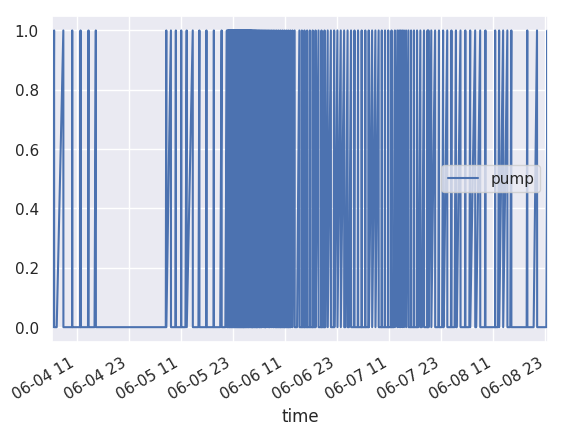
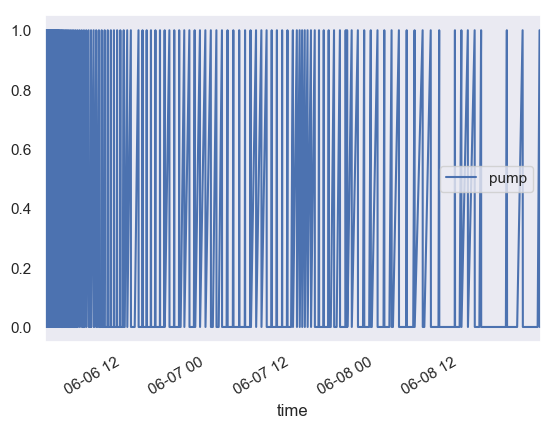
Removed time values from x-axis in pump graphs. Updated GRAPHS doc.

diff --git a/plot_pump.py b/plot_pump.py
@@ -113,15 +113,15 @@ def build_graphs(filename, truncate, show_graphs=False):
     on_off_df = create_durations_for_event_pair(data, pw.PUMP_ON, pw.PUMP_OFF, "on_duration")
     # print(on_off_df)
     ax = on_off_df.plot(kind="bar", linewidth=0)
-    plt.savefig("graphs/fig_pump_durations_on_off.png", bbox_inches="tight")
     ax.get_xaxis().set_ticks([])  # need to clear xticks here (cannot set in .plot function)
+    plt.savefig("graphs/fig_pump_durations_on_off.png", bbox_inches="tight")
 
     off_on_df = create_durations_for_event_pair(data, pw.PUMP_OFF, pw.PUMP_ON, "off_duration")
     off_on_df['off_duration'] = off_on_df['off_duration'].apply(lambda x: x * -1)  # plot OFF periods as -ve
     # print(off_on_df)
     ax = off_on_df.plot(kind="bar", linewidth=0)
-    plt.savefig("graphs/fig_pump_durations_off_on.png", bbox_inches="tight")
     ax.get_xaxis().set_ticks([])  # need to clear xticks here (cannot set in .plot function)
+    plt.savefig("graphs/fig_pump_durations_off_on.png", bbox_inches="tight")
 
     # durations_df = pd.concat([on_off_df, off_on_df], sort=False).sort_index()
 

diff --git a/GRAPHS.md b/GRAPHS.md
@@ -40,7 +40,12 @@ This is a plot of the raw sump data ON/OFF activity:
 
 ### Pump running durations
 This is a plot of the individual durations when the pump is running:
-![fig_pump_durations](graphs/fig_pump_durations.png)
+
+![fig_pump_durations_on_off](graphs/fig_pump_durations_on_off.png)
+
+...and this is a plot of the durations when the pump is off:
+
+![fig_pump_durations_off_on](graphs/fig_pump_durations_off_on.png)
 
 
 ---
